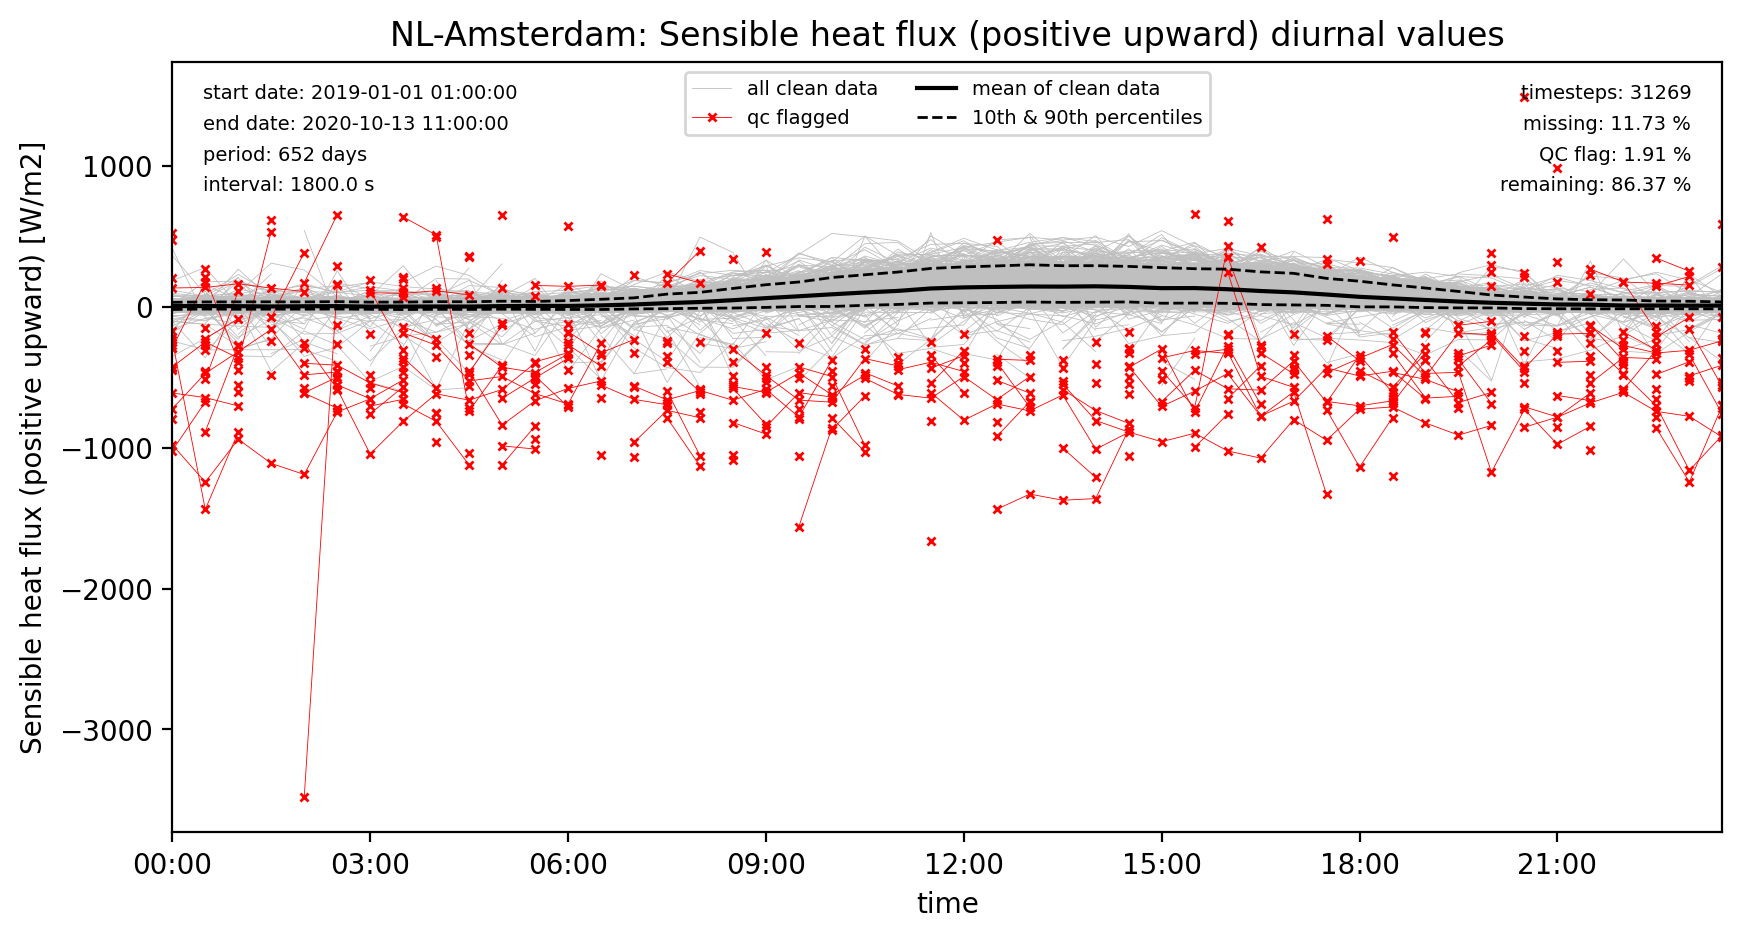
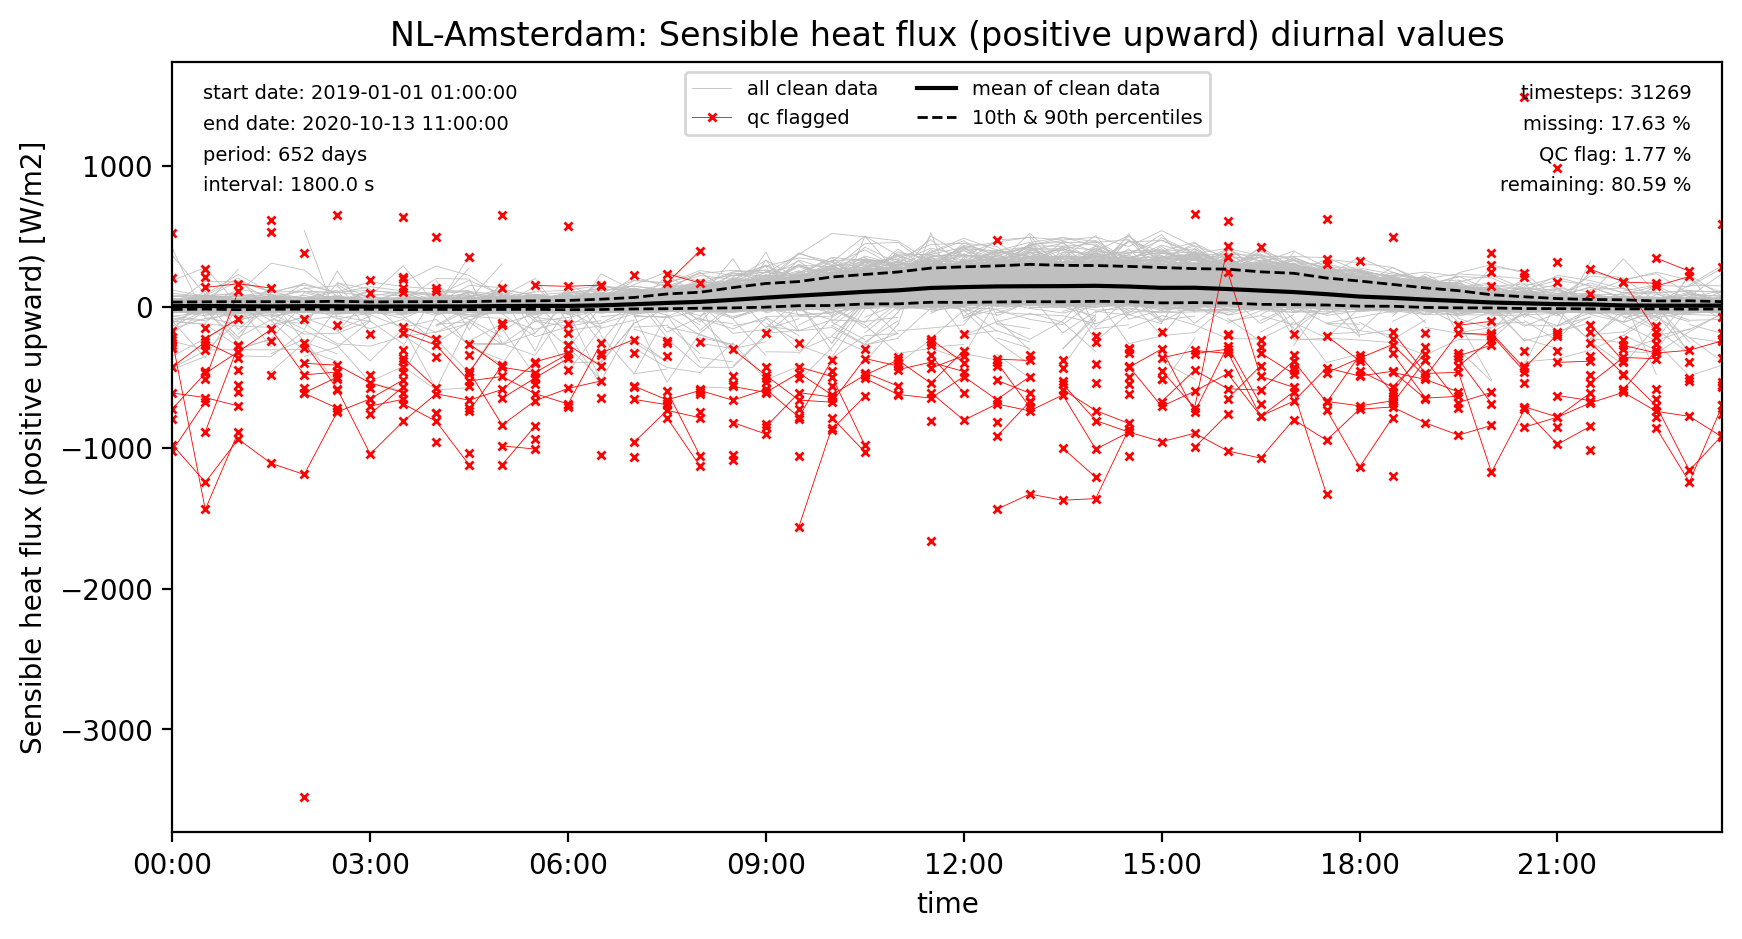
update Amsterdam

Changed region(s): [[0.31, 0.278, 0.992, 0.4015], [0.124, 0.278, 0.31, 0.3706], [0.93, 0.1235, 0.961, 0.2162]]

diff --git a/NL-Amsterdam/index.md b/NL-Amsterdam/index.md
@@ -21,49 +21,49 @@
 | timestep_number_spinup    | 175296                                                                                                                                                                                                       |
 | timestep_number_analysis  | 31269                                                                                                                                                                                                        |
 | observations_contact      | Bert Heusinkveld (bert.heusinkveld@wur.nl) & Gert-Jan Steeneveld (gert-jan.steeneveld@wur.nl), Wageningen University                                                                                         |
-| observations_reference    | nan                                                                                                                                                                                                          |
+| observations_reference    | Horst et al. (2021) in preparation                                                                                                                                                                           |
 | project_contact           | Mathew Lipson: m.lipson@unsw.edu.au, Sue Grimmond: c.s.grimmond@reading.ac.uk, Martin Best: martin.best@metoffice.gov.uk                                                                                     |
-| date_created              | 2021-04-01 18:21:36                                                                                                                                                                                          |
+| date_created              | 2021-04-13 16:11:07                                                                                                                                                                                          |
 | other_references          | ERA5: Copernicus Climate Change Service (C3S) (2017): https://cds.climate.copernicus.eu/cdsapp#!/home                                                                                                        |
 | acknowledgements          | Contains modified Copernicus Climate Change Service Information (ERA5 hourly data on single levels). With thanks to all involved in collecting, processing and sharing observational data                    |
-| comment                   | Rainfall and air pressure observations from Schiphol Airport, with pressure corrected to tower height                                                                                                        |
+| comment                   | Rainfall and air pressure observations from Schiphol Airport, with pressure corrected to tower height. Sensible and latent heat periods flagged "bad" excluded                                               |
 
 ## Site images
 
 |                                             |                                             |    
 |:-------------------------------------------:|:-------------------------------------------:|
 | [![Region](./images/NL-Amsterdam_region_map.jpg)](./images/NL-Amsterdam_region_map.jpg)  <sub>source: OpenStreetMap</sub>    | [![site_map](./images/NL-Amsterdam_site_map.jpg)](./images/NL-Amsterdam_site_map.jpg) <sub>source: OpenStreetMap</sub>    |
-| [![site_photo](./images/NL-Amsterdam_site_photo.jpg)](./images/NL-Amsterdam_site_photo.jpg) <sub>source: None</sub>  | [![site_sat](./images/NL-Amsterdam_site_sat.jpg)](./images/NL-Amsterdam_site_sat.jpg) <sub>source: OpenStreetMap, Microsoft</sub>    |
+| [![site_photo](./images/NL-Amsterdam_site_photo.jpg)](./images/NL-Amsterdam_site_photo.jpg) <sub>source: B. Heusinkveld</sub>  | [![site_sat](./images/NL-Amsterdam_site_sat.jpg)](./images/NL-Amsterdam_site_sat.jpg) <sub>source: OpenStreetMap, Microsoft</sub>    |
 
 ## Site characteristics
 
-|   id | parameter                          |      value | units         | source               | doi                                                                                                                                           |
-|-----:|:-----------------------------------|-----------:|:--------------|:---------------------|:----------------------------------------------------------------------------------------------------------------------------------------------|
-|    1 | latitude                           |   52.3665  | degrees_north | Horst  (2021)        | -                                                                                                                                             |
-|    2 | longitude                          |    4.8929  | degrees_east  | Horst  (2021)        | -                                                                                                                                             |
-|    3 | ground_height                      |    0       | m             | nan                  | nan                                                                                                                                           |
-|    4 | measurement_height_above_ground    |   40       | m             | Horst  (2021)        | -                                                                                                                                             |
-|    5 | impervious_area_fraction           |  nan       | 1             | nan                  | nan                                                                                                                                           |
-|    6 | tree_area_fraction                 |  nan       | 1             | nan                  | nan                                                                                                                                           |
-|    7 | grass_area_fraction                |  nan       | 1             | nan                  | nan                                                                                                                                           |
-|    8 | bare_soil_area_fraction            |  nan       | 1             | nan                  | nan                                                                                                                                           |
-|    9 | water_area_fraction                |  nan       | 1             | nan                  | nan                                                                                                                                           |
-|   10 | roof_area_fraction                 |    0.44125 | 1             | Horst  (2021)        | -                                                                                                                                             |
-|   11 | road_area_fraction                 |  nan       | 1             | nan                  | nan                                                                                                                                           |
-|   12 | other_paved_area_fraction          |  nan       | 1             | nan                  | nan                                                                                                                                           |
-|   13 | building_mean_height               |   14.2     | m             | Horst  (2021)        | -                                                                                                                                             |
-|   14 | tree_mean_height                   |  nan       | m             | nan                  | nan                                                                                                                                           |
-|   15 | roughness_length_momentum          |    0.7425  | m             | Horst  (2021)        | -                                                                                                                                             |
-|   16 | displacement_height                |   10.035   | m             | Horst  (2021)        | -                                                                                                                                             |
-|   17 | canyon_height_width_ratio          |    0.92    | 1             | estimated, see notes | derived from 0.326 frontal area index reported in Horst (2021) and Eq. 7 & 8 in [Porson et al. 2010](https://doi.org/10.1002/qj.668)          |
-|   18 | wall_to_plan_area_ratio            |    1.02    | 1             | estimated, see notes | derived from 0.326 frontal area index reported in Horst (2021) and Eq. 1 in [Masson et al. 2020](https://doi.org/10.1016/j.uclim.2019.100536) |
-|   19 | average_albedo_at_midday           |    0.096   | 1             | observations         | -                                                                                                                                             |
-|   20 | resident_population_density        |  nan       | person/km2    | nan                  | nan                                                                                                                                           |
-|   21 | anthropogenic_heat_flux_mean       |   43.4     | W/m2          | Varquez et al (2021) | [https://doi.org/10.1038/s41597-021-00850-w](https://doi.org/10.1038/s41597-021-00850-w)                                                      |
-|   22 | topsoil_clay_fraction              |    0.19    | 1             | OpenLandMap          | [https://doi.org/10.5281/zenodo.2525663](https://doi.org/10.5281/zenodo.2525663)                                                              |
-|   23 | topsoil_sand_fraction              |    0.6     | 1             | OpenLandMap          | [https://doi.org/10.5281/zenodo.2525662](https://doi.org/10.5281/zenodo.2525662)                                                              |
-|   24 | topsoil_bulk_density               | 1380       | kg/m3         | OpenLandMap          | [https://doi.org/10.5281/zenodo.2525665](https://doi.org/10.5281/zenodo.2525665)                                                              |
-|   25 | building_height_standard_deviation |  nan       | m             | not known            | -                                                                                                                                             |
+|   id | parameter                          |     value | units         | source               | doi                                                                                                                                           |
+|-----:|:-----------------------------------|----------:|:--------------|:---------------------|:----------------------------------------------------------------------------------------------------------------------------------------------|
+|    1 | latitude                           |   52.3665 | degrees_north | Horst  (2021)        | -                                                                                                                                             |
+|    2 | longitude                          |    4.8929 | degrees_east  | Horst  (2021)        | -                                                                                                                                             |
+|    3 | ground_height                      |    0      | m             | Horst  (2021)        | -                                                                                                                                             |
+|    4 | measurement_height_above_ground    |   40      | m             | Horst  (2021)        | -                                                                                                                                             |
+|    5 | impervious_area_fraction           |    0.68   | 1             | Horst  (2021)        | -                                                                                                                                             |
+|    6 | tree_area_fraction                 |    0.15   | 1             | Horst  (2021)        | -                                                                                                                                             |
+|    7 | grass_area_fraction                |    0      | 1             | Horst  (2021)        | -                                                                                                                                             |
+|    8 | bare_soil_area_fraction            |    0      | 1             | Horst  (2021)        | -                                                                                                                                             |
+|    9 | water_area_fraction                |    0.17   | 1             | Horst  (2021)        | -                                                                                                                                             |
+|   10 | roof_area_fraction                 |    0.44   | 1             | Horst  (2021)        | -                                                                                                                                             |
+|   11 | road_area_fraction                 |    0.07   | 1             | Horst  (2021)        | -                                                                                                                                             |
+|   12 | other_paved_area_fraction          |    0.17   | 1             | Horst  (2021)        | -                                                                                                                                             |
+|   13 | building_mean_height               |   14.2    | m             | Horst  (2021)        | -                                                                                                                                             |
+|   14 | tree_mean_height                   |   12      | m             | estimate             | -                                                                                                                                             |
+|   15 | roughness_length_momentum          |    0.7425 | m             | Horst  (2021)        | -                                                                                                                                             |
+|   16 | displacement_height                |   10.035  | m             | Horst  (2021)        | -                                                                                                                                             |
+|   17 | canyon_height_width_ratio          |    0.92   | 1             | estimated, see notes | derived from 0.326 frontal area index reported in Horst (2021) and Eq. 7 & 8 in [Porson et al. 2010](https://doi.org/10.1002/qj.668)          |
+|   18 | wall_to_plan_area_ratio            |    1.02   | 1             | estimated, see notes | derived from 0.326 frontal area index reported in Horst (2021) and Eq. 1 in [Masson et al. 2020](https://doi.org/10.1016/j.uclim.2019.100536) |
+|   19 | average_albedo_at_midday           |    0.096  | 1             | observations         | -                                                                                                                                             |
+|   20 | resident_population_density        |  nan      | person/km2    | nan                  | -                                                                                                                                             |
+|   21 | anthropogenic_heat_flux_mean       |   43.4    | W/m2          | Varquez et al (2021) | [https://doi.org/10.1038/s41597-021-00850-w](https://doi.org/10.1038/s41597-021-00850-w)                                                      |
+|   22 | topsoil_clay_fraction              |    0.19   | 1             | OpenLandMap          | [https://doi.org/10.5281/zenodo.2525663](https://doi.org/10.5281/zenodo.2525663)                                                              |
+|   23 | topsoil_sand_fraction              |    0.6    | 1             | OpenLandMap          | [https://doi.org/10.5281/zenodo.2525662](https://doi.org/10.5281/zenodo.2525662)                                                              |
+|   24 | topsoil_bulk_density               | 1380      | kg/m3         | OpenLandMap          | [https://doi.org/10.5281/zenodo.2525665](https://doi.org/10.5281/zenodo.2525665)                                                              |
+|   25 | building_height_standard_deviation |  nan      | m             | not known            | -                                                                                                                                             |
 
 ## Site observations
 
